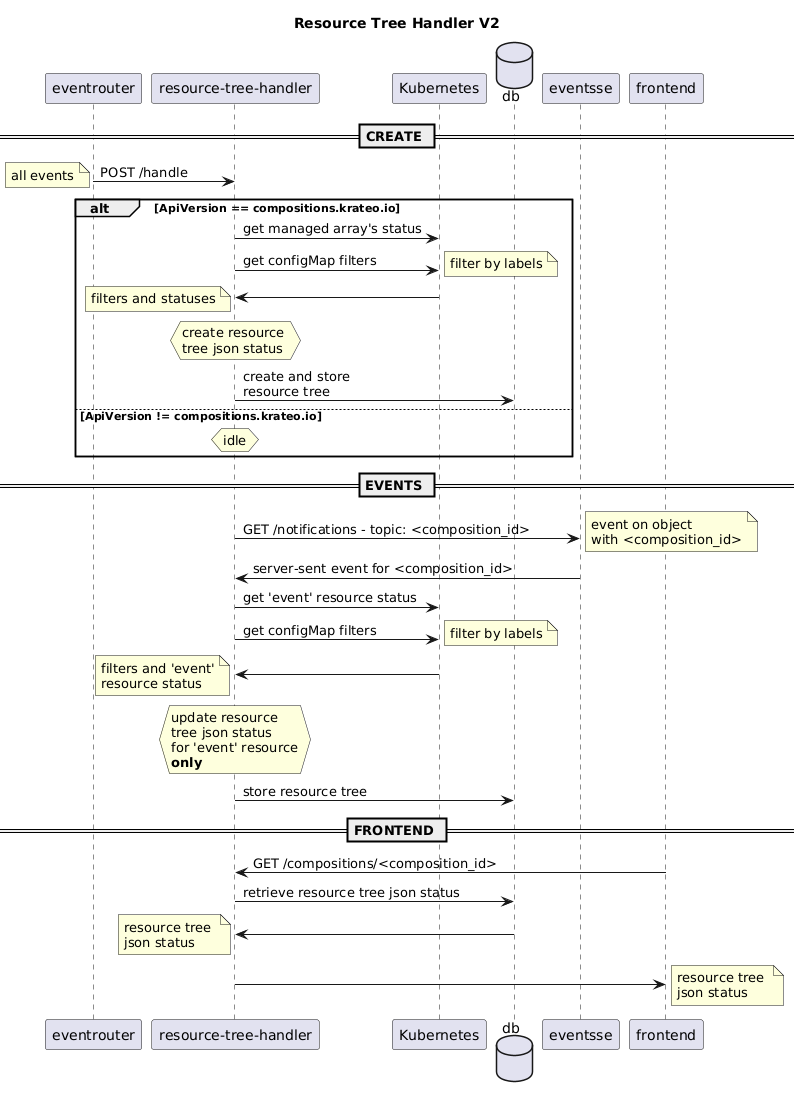
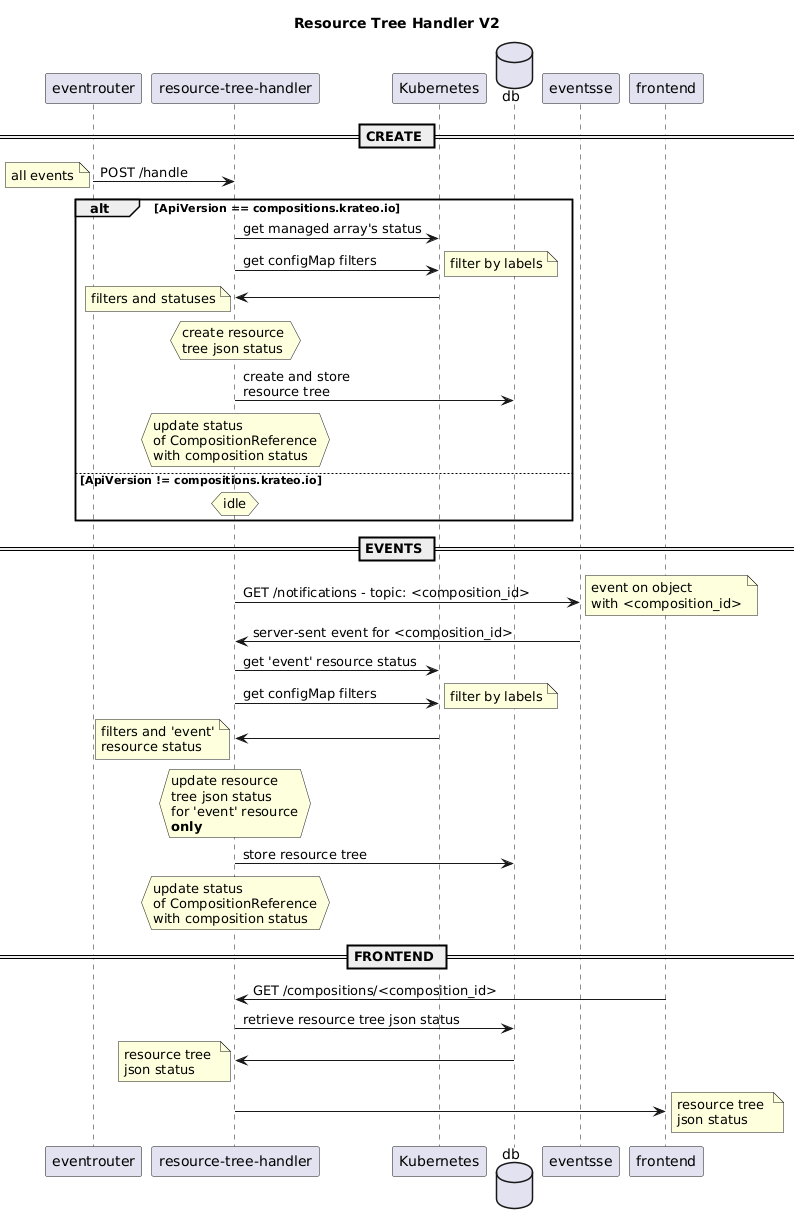
docs: updated readme with compositionReference status update

Changed region(s): [[0.0, 0.0, 0.9912, 0.8988], [0.4806, 0.8678, 0.9912, 0.9918], [0.0601, 0.9298, 0.4205, 0.9608]]

diff --git a/readme.md b/readme.md
@@ -11,7 +11,7 @@ This service manages the resource trees for all the compositions installed.
 
 ## Overview
 
-This service monitors all Kubernetes events that it receives on the `/events` endpoint to find create/deleted compositions. When a composition is created, it creates a resource tree by fetching all managed resources' status. The resource tree is then published on `/compositions/<composition_id>`. If a delete event happens, then the resource tree is deleted from the cache and will not be served on the `/compositions/<composition_id>` endpoint anymore. The `/refresh/<composition_id>` endpoint can refreshes a resource tree for a given composition_id and the `/list` endpoint returns the list of all composition_ids that have a resource tree available. Additionally, the resource-tree-handler awaits sse events from the [eventsse](http://github.com/krateoplatformops/eventsse/) service, updating each object in the resource tree individually, when it has an event that notifies an update.
+This service monitors all Kubernetes events that it receives on the `/events` endpoint to find create/deleted compositions (the events are obtained through an [eventrouter](http://github.com/krateoplatformops/eventrouter/) registration). When a composition is created, it creates a resource tree by fetching all managed resources' statuses. The resource tree is then published on `/compositions/<composition_id>`. If a delete event happens, then the resource tree is deleted from the cache and will not be served on the `/compositions/<composition_id>` endpoint anymore. The `/refresh/<composition_id>` endpoint can refreshes a resource tree for a given composition_id and the `/list` endpoint returns the list of all composition_ids that have a resource tree available. Additionally, the resource-tree-handler awaits sse events from the [eventsse](http://github.com/krateoplatformops/eventsse/) service, updating each object in the resource tree individually, when it has an event that notifies an update. Finally, it updates the status of the CR CompositionReference (i.e., the one that contains the filters) with the overall status of the composition, also setting the CompositionReference as the root of the resource tree.
 
 ## Architecture
 
@@ -81,6 +81,8 @@ spec:
     - apiVersion: "v1"
       resource: "configmaps"
       name: "^composition-"
+status:
+  ...
 ```
 
 The filters are evaluated at runtime, so changes made to the custom resource while the resource-tree-handler is running will be applied at the next event that triggers an update of the resource tree. The changed filter will trigger an update of the whole resource tree, equivalent to calling the `/refresh/<composition_id>` endpoint.
